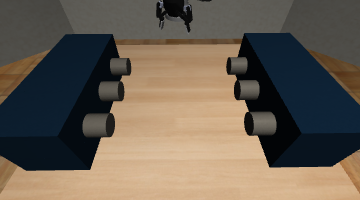
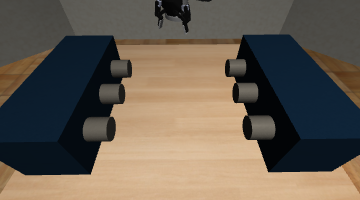
add collect script

diff --git a/tasks/collect_data/collect_task.py b/tasks/collect_data/collect_task.py
@@ -3,6 +3,10 @@ from multi_task_robosuite_env.controllers.controllers.expert_pick_place import \
     get_expert_trajectory as place_expert
 from multi_task_robosuite_env.controllers.controllers.expert_nut_assembly import \
     get_expert_trajectory as nut_expert
+from multi_task_robosuite_env.controllers.controllers.expert_block_stacking import \
+    get_expert_trajectory as block_stacking_expert
+from multi_task_robosuite_env.controllers.controllers.expert_button import \
+    get_expert_trajectory as button_expert
 import functools
 import os
 import pickle as pkl
@@ -47,6 +51,22 @@ TASK_ENV_MAP = {
         'ur5e':     'UR5e_NutAssemblyDistractor',
         'object_set': 1,
     },
+    'block_stacking':  {
+        'n_task':   6,
+        'env_fn':   block_stacking_expert,
+        'panda':    'Panda_BlockStacking',
+        'sawyer':   'Sawyer_BlockStacking',
+        'ur5e':     'UR5e_BlockStacking',
+        'object_set': 1,
+    },
+    'press_button':  {
+        'n_task':   6,
+        'env_fn':   button_expert,
+        'panda':    'Panda_Button',
+        'sawyer':   'Sawyer_Button',
+        'ur5e':     'UR5e_Button',
+        'object_set': 1,
+    },
 }
 
 ROBOT_NAMES = ['panda', 'sawyer', 'ur5e']
@@ -86,11 +106,11 @@ def save_rollout(N, task_name, env_type, env_func, save_dir, n_tasks, env_seed=F
                             seed=seed,
                             env_seed=env_seed,
                             gpu_id=gpu_id_indx,
-                            render_camera="camera_lateral_right",
+                            render_camera="camera_front",
                             object_set=TASK_ENV_MAP[task_name]['object_set'])
             if len(traj) < 5:  # try again
                 traj = env_func(env_type, controller_type=config, renderer=renderer, camera_obs=camera_obs, task=task,
-                                seed=seed, env_seed=env_seed, gpu_id=gpu_id_indx, render_camera="camera_lateral_right")
+                                seed=seed, env_seed=env_seed, gpu_id=gpu_id_indx, render_camera="camera_front")
 
         # let's make a new folder structure for easier dataloader construct:
         # env_type/task_id/traj_idx.pkl, where idxes start from 0 within each sub-task

diff --git a/tasks/multi_task_robosuite_env/tasks/press_button.py b/tasks/multi_task_robosuite_env/tasks/press_button.py
@@ -538,8 +538,8 @@ class PressButton(SingleArmEnv):
                     obj_bb[camera_name][obj_name]['bottom_right_corner'] = [
                         x_min, y_min]
 
-                    plot_bb(img=np.array(di[f'{camera_name}_image'][::-1, :, ::-1]),
-                            obj_bb=obj_bb[camera_name])
+                    # plot_bb(img=np.array(di[f'{camera_name}_image'][::-1, :, ::-1]),
+                    #         obj_bb=obj_bb[camera_name])
         return obj_bb
 
     def _check_success(self):

diff --git a/tasks/multi_task_robosuite_env/controllers/controllers/expert_button.py b/tasks/multi_task_robosuite_env/controllers/controllers/expert_button.py
@@ -310,7 +310,7 @@ if __name__ == '__main__':
         current_dir, "../config/osc_pose.json")
     controller_config = load_controller_config(
         custom_fpath=controller_config_path)
-    for i in range(6):
+    for i in range(3, 6):
         traj = get_expert_trajectory('UR5e_Button',
                                      controller_type=controller_config,
                                      renderer=False,
